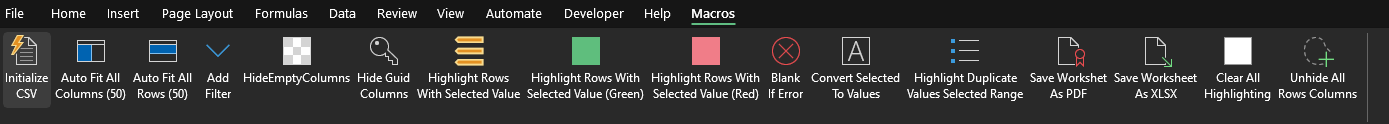
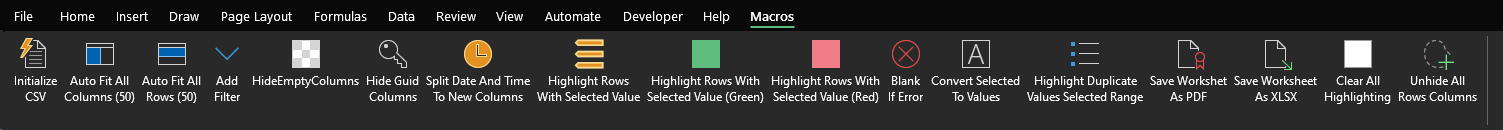
Added date/time split macro.

diff --git a/README.md b/README.md
@@ -10,7 +10,7 @@ https://github.com/bitpusher2k
 
 # ExcelMacros.vba - By Bitpusher/The Digital Fox
 
-## v1.0 last updated 2024-03-29
+## v1.1 last updated 2024-05-04
 
 ## Simple Excel macro set.
 
@@ -64,6 +64,7 @@ If PERSONAL.XLSB cannot be loaded from default location a custom location can be
 * AddFilter - Adds filter to top row. Easy enough to do with the Ctrl+Shift+L shortcut, but fits in with the flow when using other related macros.
 * HideEmptyColumns - Hides all columns with data only in the first row (which is assumed to be the header row).
 * HideGuidColumns - Hide all columns with a GUID in the second row (the first is assumed to be the header). Be sure to enable "Microsoft VBScript Regular Expression 5.5" under "Tools" > "References..." for this to work.
+* SplitDateAndTimeToNewColumns - If a column containing *date* *space* *time* is selected: creates two new columns to the right, copies *date* into the first, and copies *time* into the second.
 * HighlightRowsWithSelectedValue - Highlights all lines that have a cell which contains the value in the currently selected cell. Can then use filter by color to limit view to highlighted entries. Separate macros for yellow/green/red highlighting included.
 * BlankIfError - Surround formulas in all selected cells with =IFERROR(,"").
 * ConvertSelectedToValues - Converts formulas in selected cells to values.
